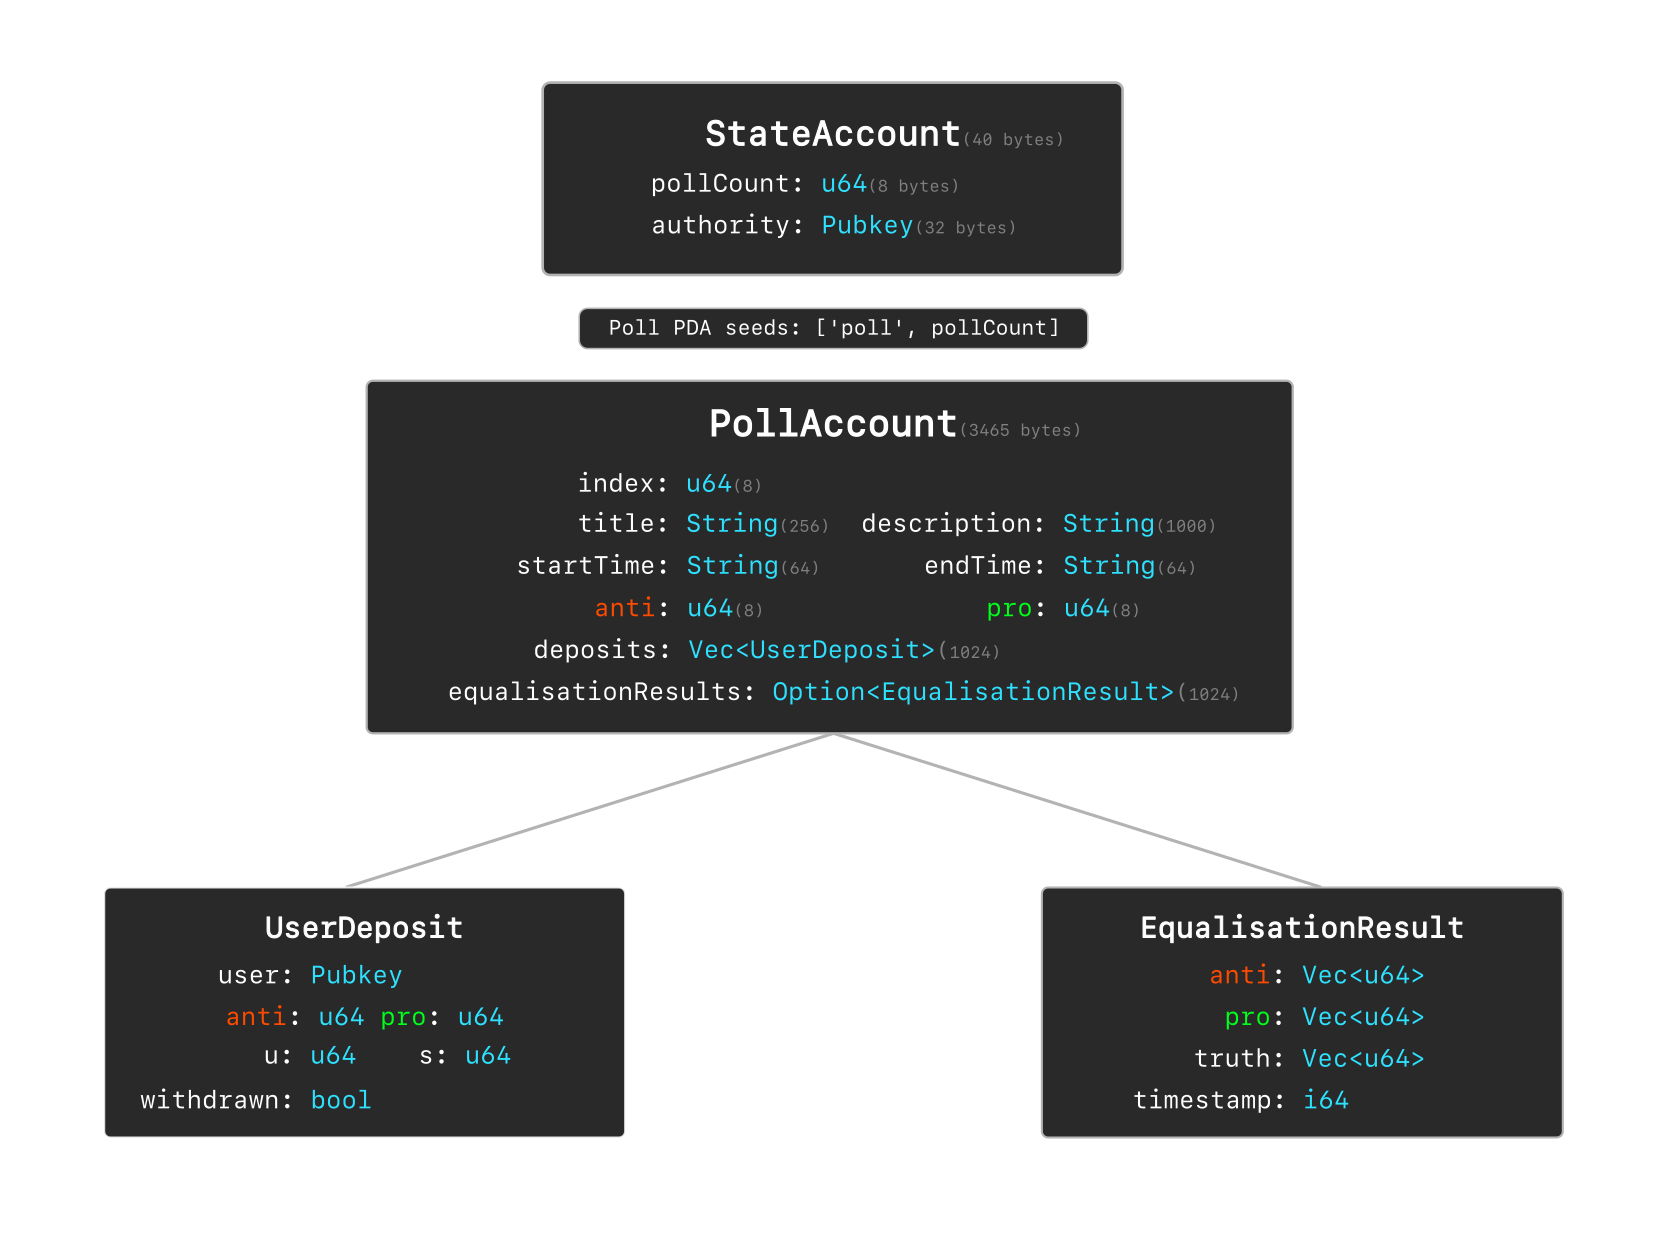
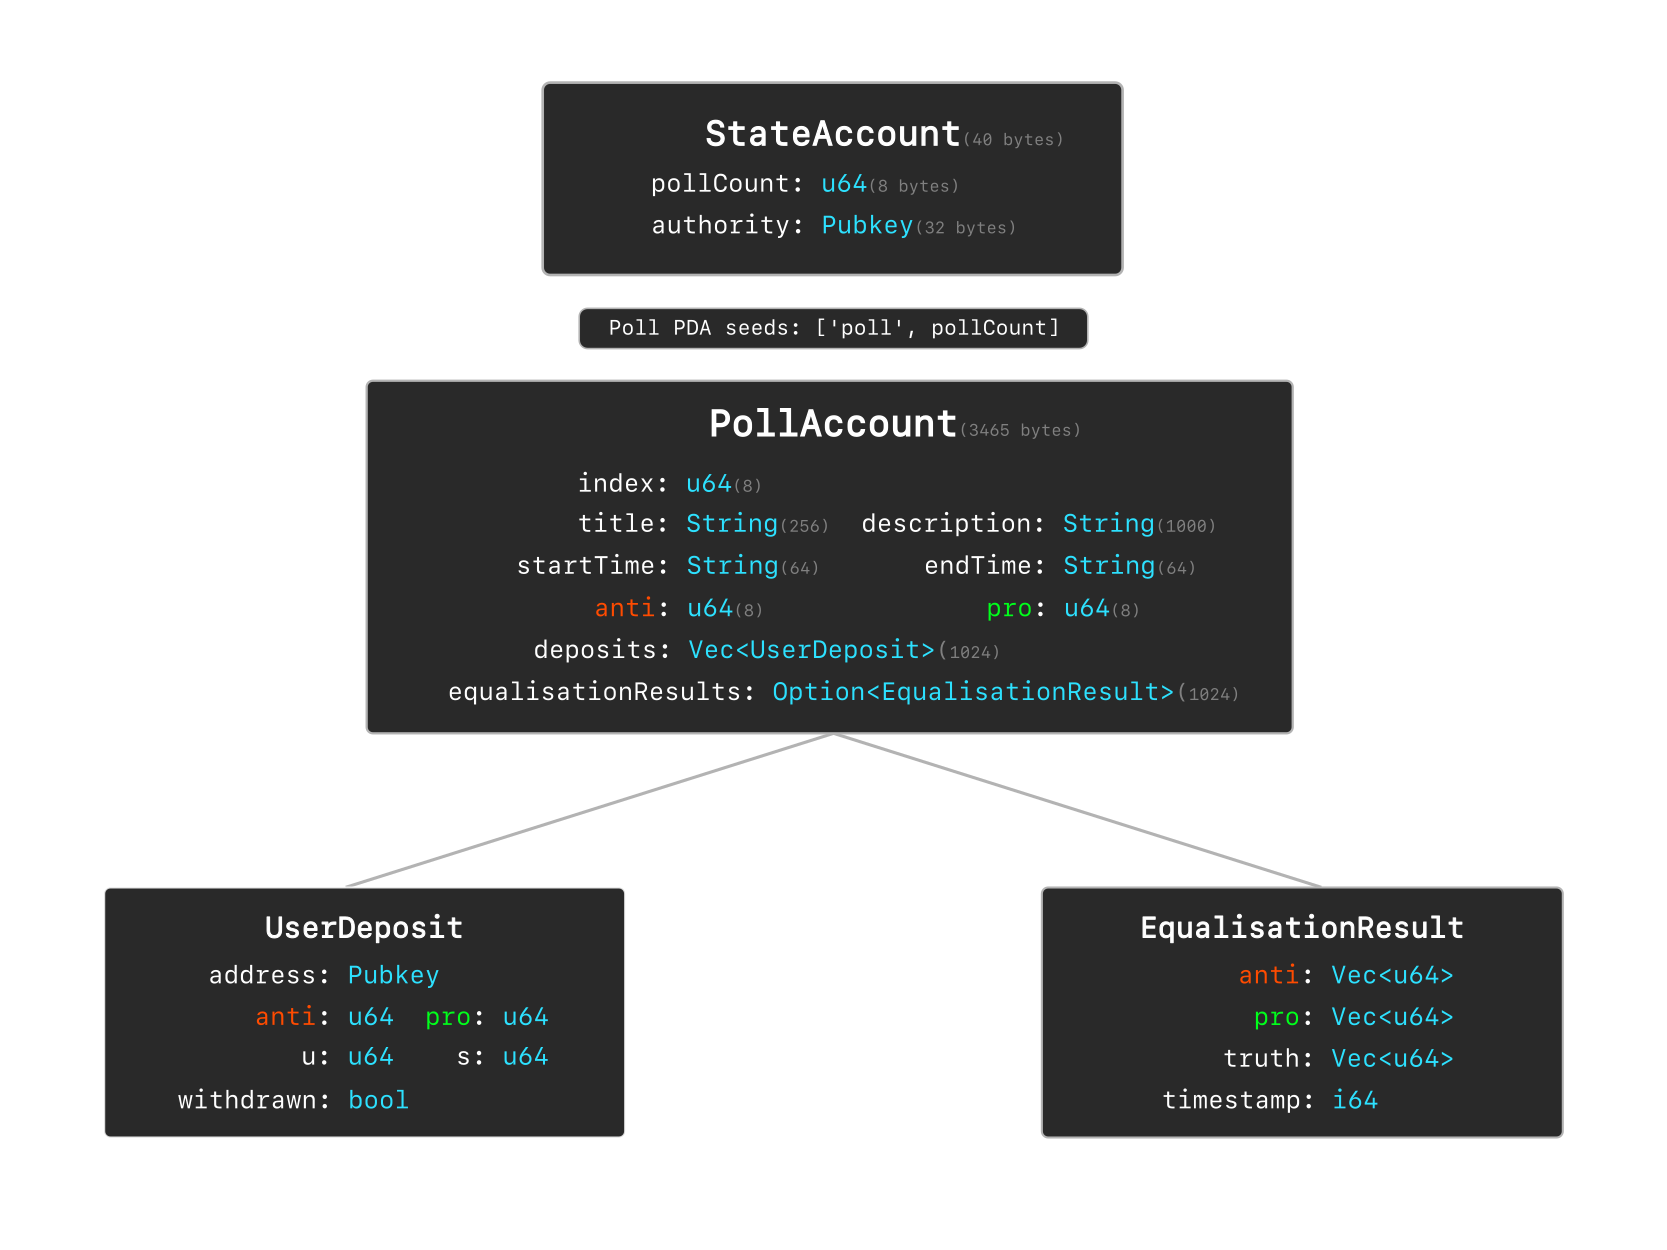
Smart Contracts: Events

Changed region(s): [[0.6863, 0.78, 0.8734, 0.9048], [0.0936, 0.7488, 0.3119, 0.9048]]

diff --git a/docs/contracts/beta.md b/docs/contracts/beta.md
@@ -8,7 +8,7 @@ import { Collider, Equaliser } from '@site/src/components/InteractiveScript';
 
 # Collider Smart Contract
 
-Author: [ `sshmatrix` ](https://sshmatrix.ss.codes/) | [ `Antitoken` ](https://stage.antitoken.pro) | `quant/acc` | `q/acc` 
+Author: [ `sshmatrix` ](https://sshmatrix.ss.codes/) | [ `github` ](https://github.com/antitokens/solana-collider) | `quant/acc` | `q/acc` 
 
 Ping: [dev@antitoken.pro](mailto:dev@antitoken.pro)
 
@@ -70,3 +70,61 @@ The <span style={{ color: 'red' }}>red</span>/<span style={{ color: 'limegreen' 
 
 <img src="/img/contracts/core.png" alt="Core" />
 <div style={{ textAlign: 'center' }}>Figure 2: Core</div>
+
+## Events
+
+The program emits events at key state transitions for off-chain indexing:
+
+### `PollCreatedEvent` 
+
+```typescript
+{
+    pollCount: u64,      // Unique identifier
+    address: Pubkey,     // Poll creator
+    title: String,       // Poll title
+    description: String, // Poll description
+    startTime: String,   // ISO timestamp
+    endTime: String,     // ISO timestamp
+    timestamp: i64       // Creation time
+}
+```
+
+### `DepositEvent` 
+
+```typescript
+{
+    pollCount: u64,         // Referenced poll
+    address: Pubkey,        // Depositor address
+    anti: u64,              // $ANTI deposit amount
+    pro: u64,               // $PRO deposit amount  
+    u: u64,                 // Truth value u
+    s: u64,                 // Truth value s
+    timestamp: i64          // Deposit time
+}
+```
+
+### `EqualisationEvent` 
+
+```typescript
+{
+    pollCount: u64,            // Referenced poll
+    truth: Vec<u64>,           // Final truth values
+    anti: u64,                 // Total $ANTI pooled
+    pro: u64,                  // Total $PRO pooled
+    timestamp: i64             // Equalisation time
+}
+```
+
+### `WithdrawEvent` 
+
+```typescript
+{
+    pollCount: u64,       // Referenced poll
+    address: Pubkey,      // Withdrawer address
+    anti: u64,            // $ANTI withdrawn
+    pro: u64,             // $PRO withdrawn
+    timestamp: i64        // Withdrawal time
+}
+```
+
+These events enable off-chain indexing for market analytics, user positions tracking, and historical data analysis.

diff --git a/docs/whitepaper/antitoken.md b/docs/whitepaper/antitoken.md
@@ -7,7 +7,7 @@ description: Entangled Quantum-like Tokenomics for DeSci & Prediction Markets
 
 # Entangled Quantum-like Tokenomics for DeSci & Prediction Markets
 
-Author: [ `sshmatrix` ](https://sshmatrix.ss.codes/) | [ `Antitoken` ](https://stage.antitoken.pro) | `quant/acc` | `q/acc` 
+Author: [ `sshmatrix` ](https://sshmatrix.ss.codes/) | [ `Antitoken` ](https://antitoken.pro) | `quant/acc` | `q/acc` 
 
 Ping: [dev@antitoken.pro](mailto:dev@antitoken.pro)
 

diff --git a/docs/yellowpaper/antitoken.md b/docs/yellowpaper/antitoken.md
@@ -8,7 +8,7 @@ import { Collider, Equaliser } from '@site/src/components/InteractiveScript';
 
 # Antitoken: A Prediction Framework for Continuous Outcomes
 
-Author: [ `sshmatrix` ](https://sshmatrix.ss.codes/) | [ `Antitoken` ](https://stage.antitoken.pro) | `quant/acc` | `q/acc` 
+Author: [ `sshmatrix` ](https://sshmatrix.ss.codes/) | [ `Antitoken` ](https://antitoken.pro) | `quant/acc` | `q/acc` 
 
 Ping: [dev@antitoken.pro](mailto:dev@antitoken.pro)
 
